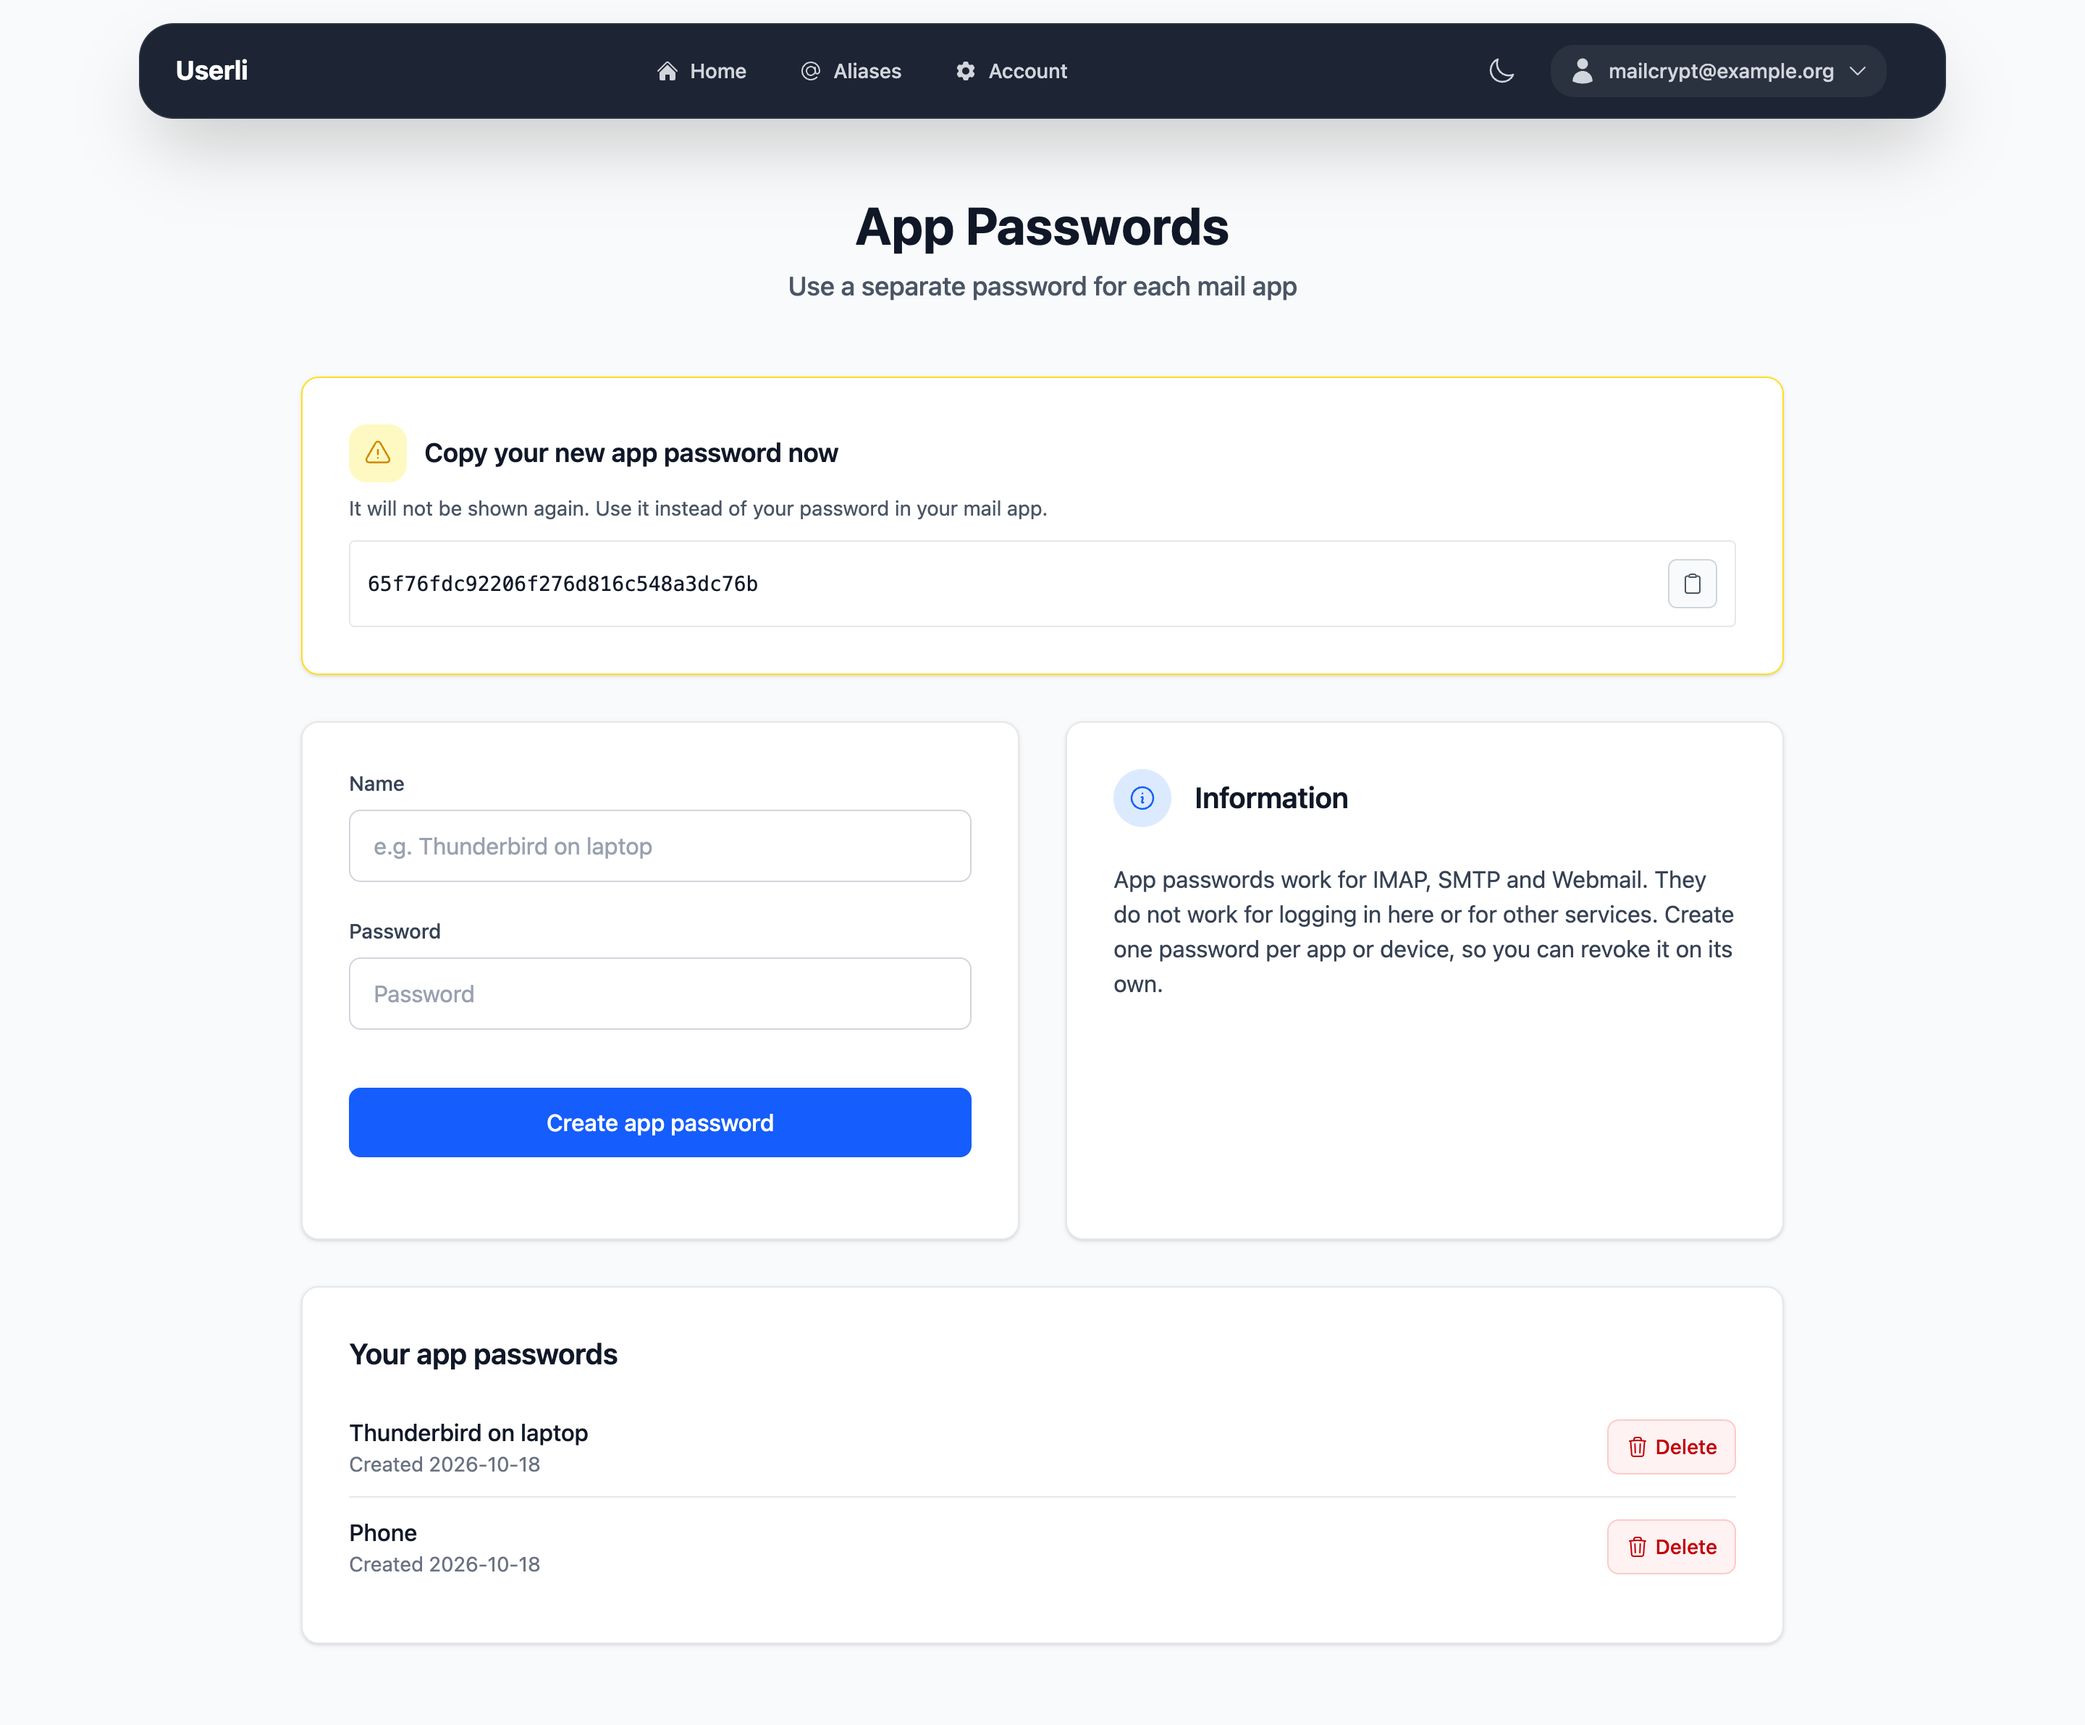
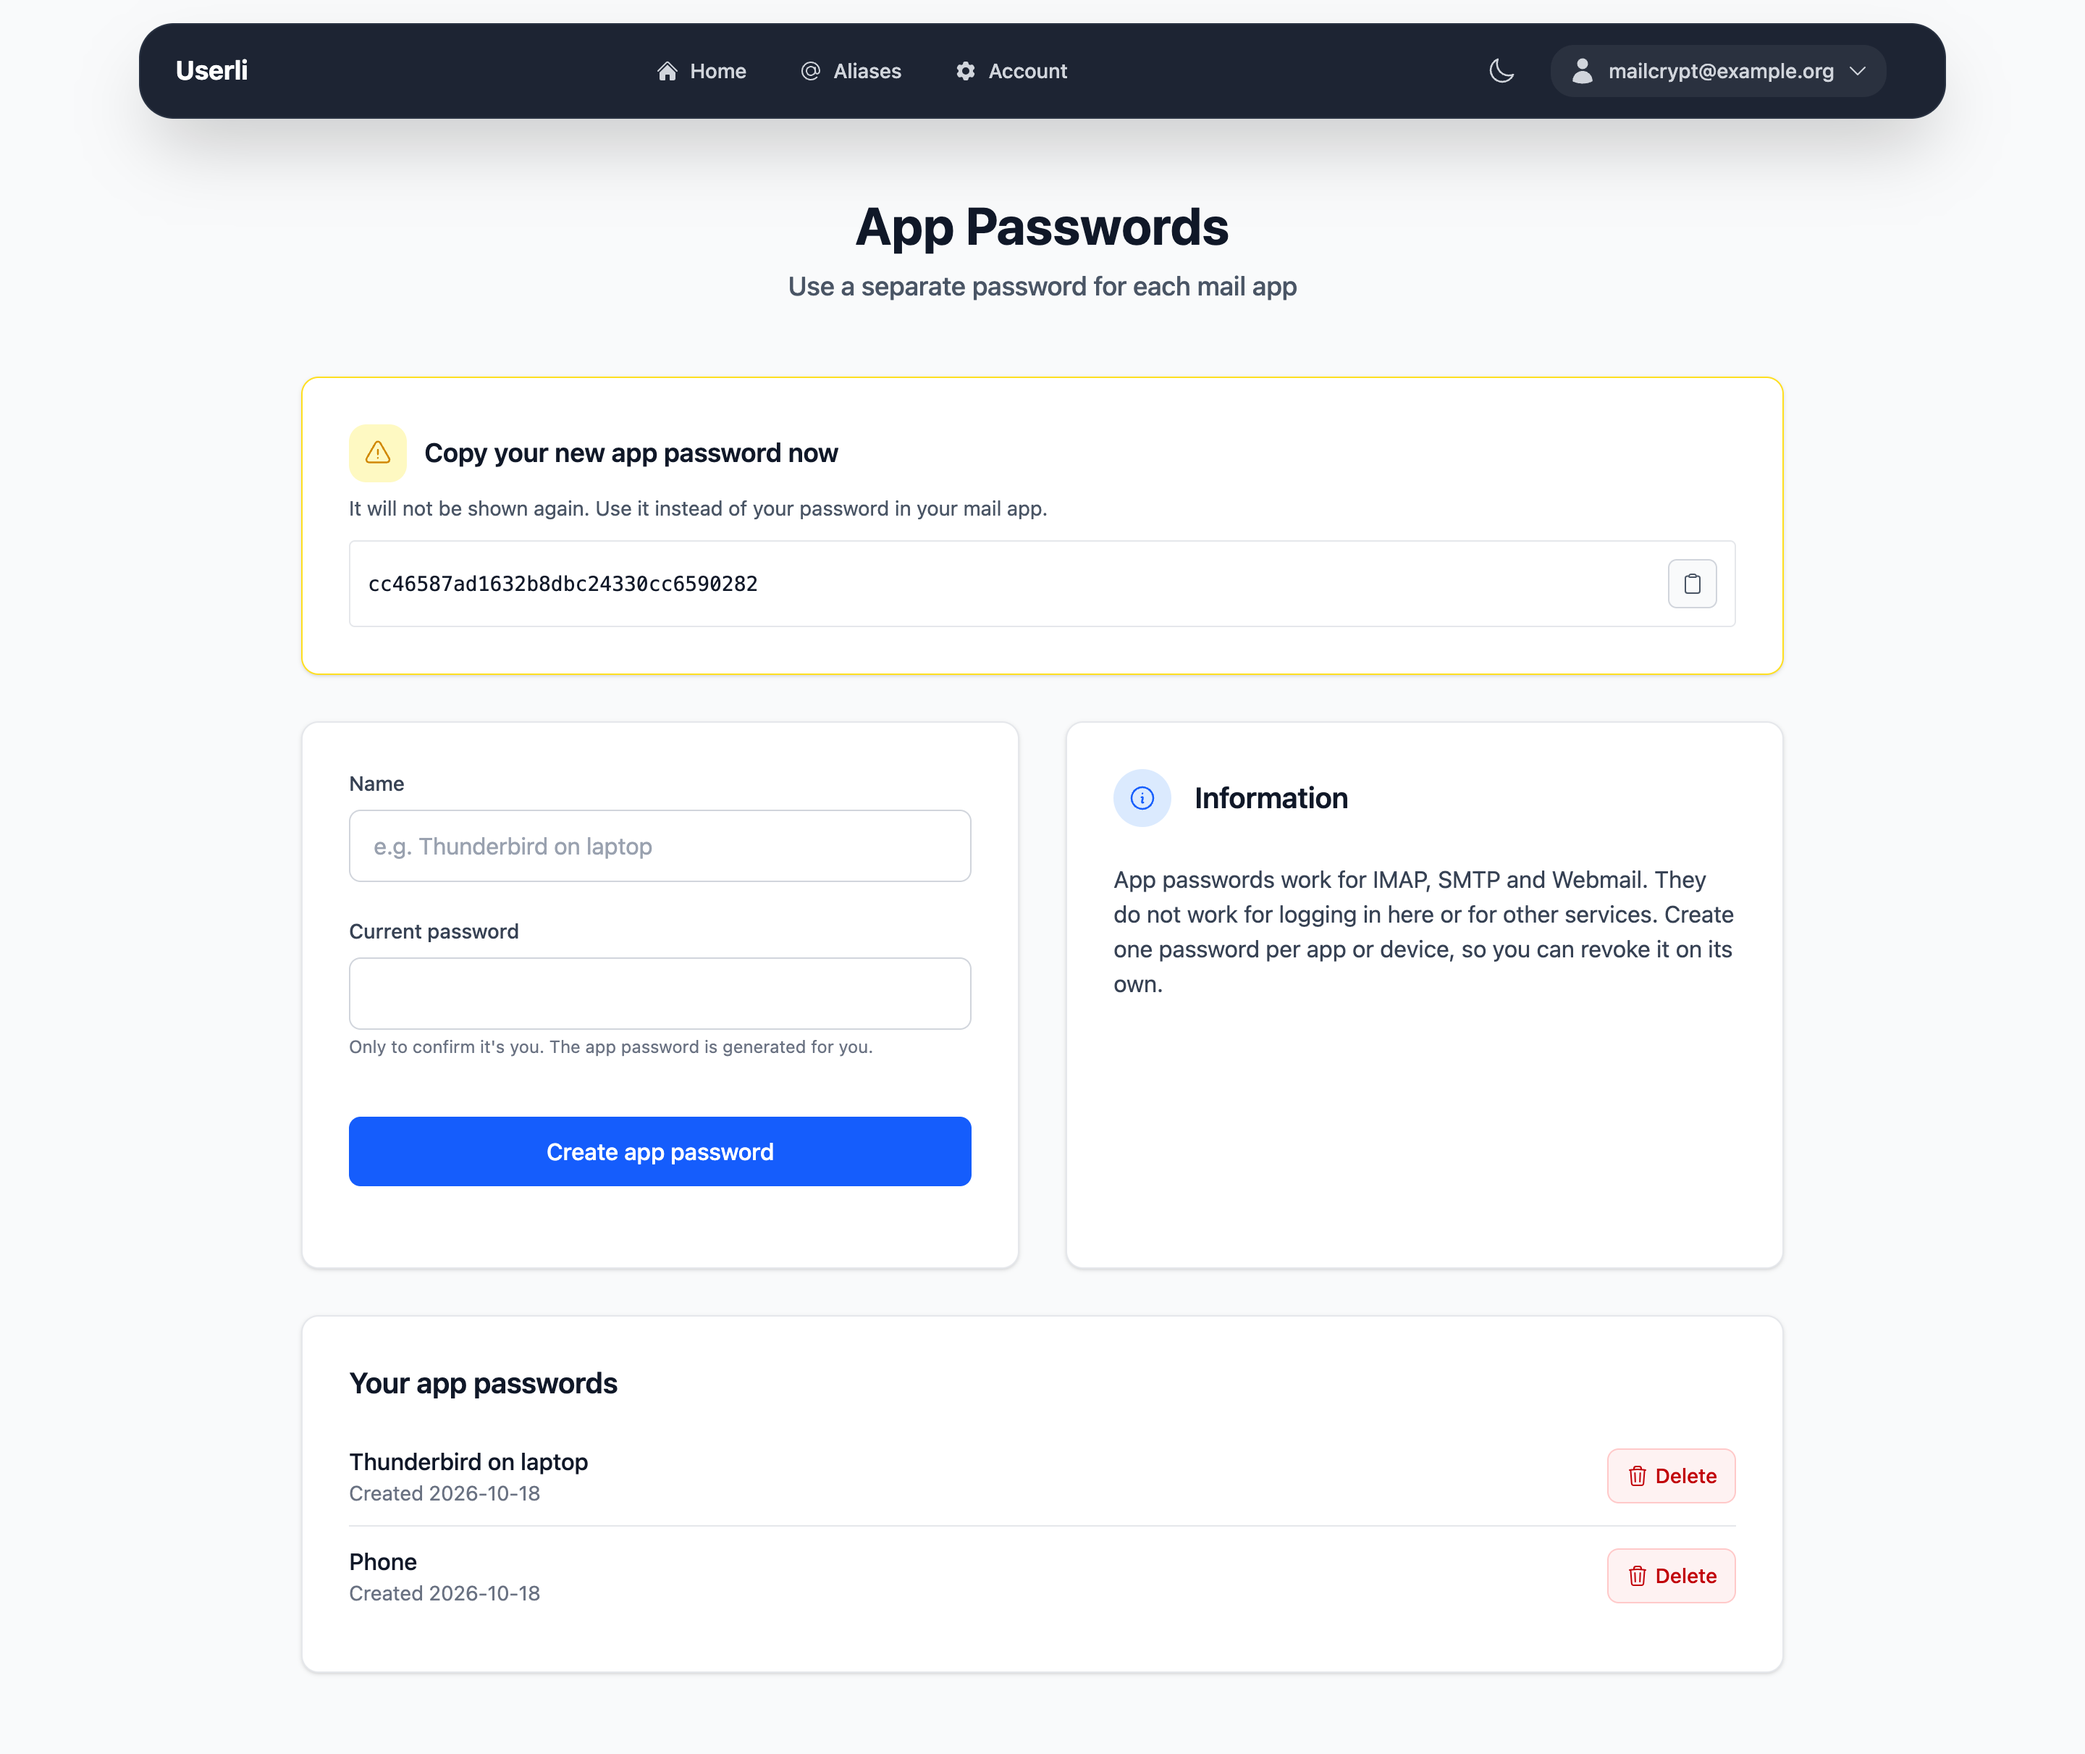
💄 Clarify that the app password form asks for the current password
The password field only confirms it's the user. Label it "Current password"
and explain that the app password is generated.

diff --git a/src/Form/AppPasswordCreateType.php b/src/Form/AppPasswordCreateType.php
@@ -23,7 +23,7 @@ final class AppPasswordCreateType extends AbstractType
     {
         $builder
             ->add('name', TextType::class, ['label' => 'account.app-passwords.name', 'attr' => ['maxlength' => 64, 'placeholder' => 'account.app-passwords.name-placeholder']])
-            ->add('password', PasswordType::class, ['label' => 'form.password'])
+            ->add('password', PasswordType::class, ['label' => 'form.actual-password', 'help' => 'account.app-passwords.password-help', 'attr' => ['autocomplete' => 'current-password']])
             ->add('submit', SubmitType::class, ['label' => 'account.app-passwords.create']);
     }
 

diff --git a/docs/user/app-passwords.md b/docs/user/app-passwords.md
@@ -18,7 +18,8 @@ your other devices keep working.
 1. Go to **Account settings → App Passwords**.
 2. Enter a **Name** that tells you where you use it, for example
    *Thunderbird on laptop*.
-3. Enter your password and click **Create app password**.
+3. Enter your current password to confirm it's you and click **Create app
+   password**. The app password itself is generated for you.
 4. Copy the new app password and enter it in your email program instead of
    your password.
 
